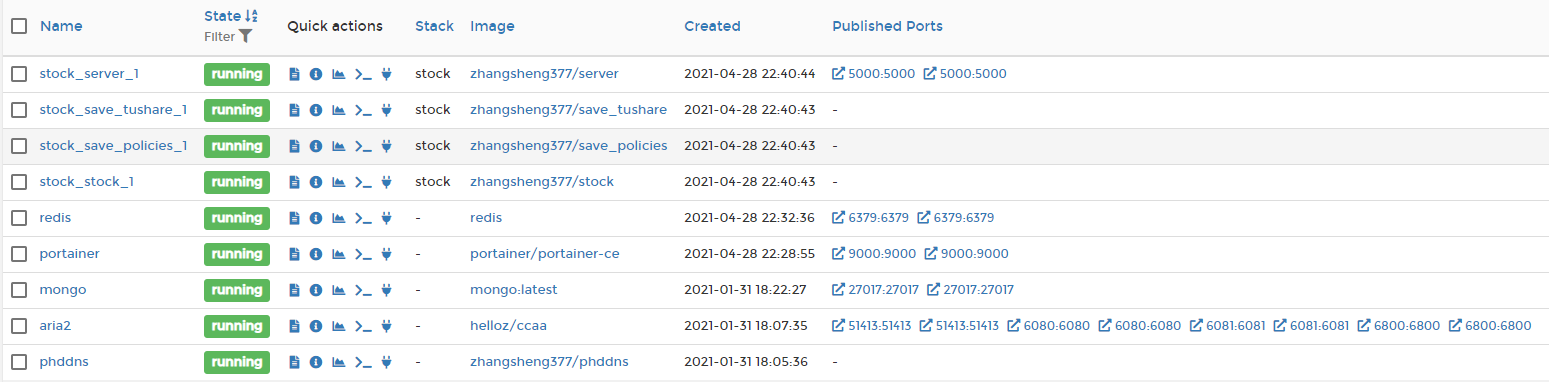
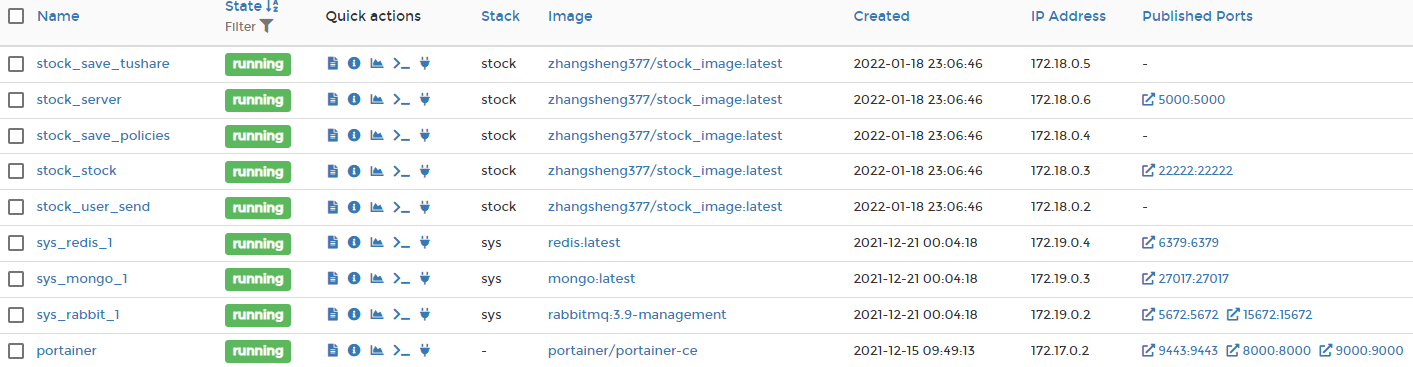
更新股票监控系统

diff --git a/content/post/monitor_stock_system.md b/content/post/monitor_stock_system.md
@@ -45,13 +45,21 @@ sequenceDiagrams:
 
 ## 流程图
 
-![量化股票交易系统](/images/量化股票监控系统.png)
+![股票监控系统——模块关系图](/images/股票监控系统——模块关系图.png)
 
 简单说来就是：
 
-1. 我们先用一个爬虫模块，监控数据库里存储的订阅股票信息，采用多线程的方式爬取所有订阅的股票数据，并把数据存储到数据库里，同时缓存一份当天的数据到redis里。
-2. 数据库采取简单工厂设计模式提供生成接口，支持不同的数据库后端，在前端提供一致的服务。具体的后端数据库，包括 mongodb和sqlite等。
-3. 算法策略模块负责，拉起多线程，对每一只股票，用每一种算法策略进行处理，将生成的报警点存储进redis缓存，若没有报警点则忽略。
-4. 订阅分发模块负责监控每个股票的算法结果有无变化，若有，则从数据库中查找所有同时订阅该股票以及该算法策略的用户，并取出他们的微信id，主动发送报警。并且，报警信息中会利用该股票的历史数据，以及历史报警信息，出图，并存储至七牛云图床，让微信用户在打开该报警信息时，可以从最近的七牛云cdn访问到图片。![股票消息列表](/images/stock_message_list.png) ![股票消息](/images/stock_message.png)
-5. 同时部署了微信服务器程序，负责处理微信用户发来的消息，包括绑定微信号、订阅股票、取消订阅股票、查询股票、查询已订阅的股票等功能。该服务器由于部署在家庭内网，所以还需要额外部署一个花生壳的phddns服务来提供内网穿透的能力。
+1. 爬虫模块，监控数据库里存储的订阅股票信息，采用多线程的方式爬取所有订阅的股票数据，并把数据存储到数据库里，同时缓存一份当天的数据到redis里；并作为生产者，把股票数据更新的消息发送至mq。
+2. 其中，数据库采取简单工厂设计模式提供生成接口，支持不同的数据库后端，在前端提供一致的服务。具体的后端数据库，包括 mongodb和sqlite等。
+3. 算法策略模块作为mq的消费者，收到股票的更新消息后，会从redis中读取股票数据，并用每一种算法策略进行处理。若策略结果有更新，则将结果缓存进redis，同时作为生产者，将策略结果更新的消息发送至mq。
+4. 推送模块从mq监听策略结果的更新，若有，则从redis读取策略结果，以及所有订阅该股票和该算法策略的用户，取出他们的微信id，主动发送报警。而报警信息中会利用该股票的历史数据，以及历史报警信息，画出图像，并存储至七牛云图床，让微信用户在打开该报警信息时，可以从最近的七牛云cdn访问到图片。![股票消息列表](/images/stock_message_list.png) ![股票消息](/images/stock_message.jpg)
+5. 另外，还部署了微信服务器程序，负责处理微信用户发来的消息，包括绑定微信号、订阅股票、取消订阅股票、查询股票、查询已订阅的股票等功能。
 6. 以上这些模块全部使用docker部署，并且为了统一管理，编写了docker-compose.xml，并采用portainer，来进行统一部署和管理。![容器列表](/images/container_list.png)
+
+## 感想
+
+其实，原来我的这个项目，为了图省事，是采用定时器轮询的方式，消息都是存在redis里。。。直到最近，才改成了用消息队列来传递。
+
+这一改，最大的感受就是，变得微服务化了。消息队列带来的，不光是一个组件，或是交互方式上的改进，更多的，是编程思想的改变。
+
+自从微服务化了，每个组件都只聚焦于自身的业务逻辑，代码也变得更简洁了。（再也不需要之前的一堆带锁定时器，代码相互调用，深耦合了）
